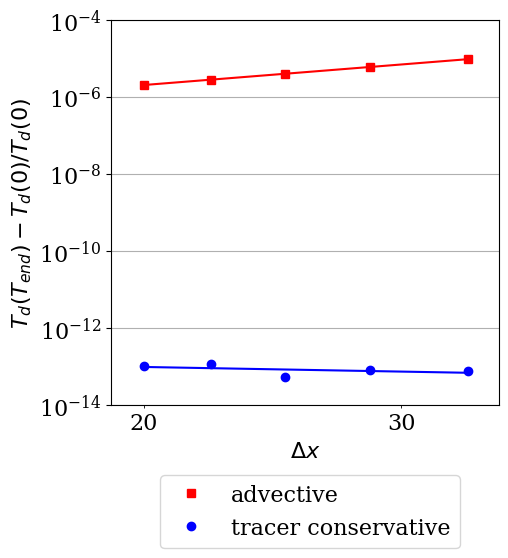
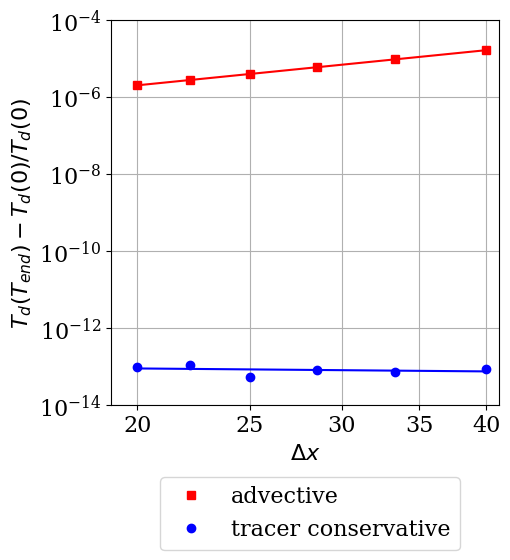
updated NL slice figures

diff --git a/paper_test_suite/NL_slice/plot_NL_slice_comparison.py b/paper_test_suite/NL_slice/plot_NL_slice_comparison.py
@@ -9,11 +9,11 @@ from tomplot import (set_tomplot_style, plot_convergence,
                      only_minmax_ticklabels, tomplot_legend_ax,
                      tomplot_legend_fig)
 import numpy as np
-from matplotlib.ticker import ScalarFormatter
+from matplotlib.ticker import ScalarFormatter, NullLocator
 
-order = 0
+order = 1
 configuration = 'convergence'
-quantity = 'tracer_density' # tracer_density or m_X
+quantity = 'm_X' # tracer_density or m_X
 
 # Tracer density will be the total and m_X is the L2 of stead state error
 
@@ -38,9 +38,9 @@ advective = []
 
 # Spatial refinements
 if order == 1:
-    dxzs = [60, 70, 80, 90, 100]
+    dxzs = [50, 60, 70, 80, 90, 100]
 else:
-    dxzs = [120, 140, 160, 180, 200]
+    dxzs = [100, 120, 140, 160, 180, 200]
 
 dx_values = []
 
@@ -127,18 +127,23 @@ ax.set_ylabel(ylabel)
 
 if order == 1:  
     if quantity == 'tracer_density':
-        ax.set_xlim([19,35])
+        ax.set_xlim([19,41])
         ax.set_ylim([1e-14,1e-4])
+        plt.gca().axes.xaxis.set_ticks([20,25,30,35,40])
+        plt.gca().axes.xaxis.set_ticklabels([20,25,30,35,40])
         plt.gca().xaxis.set_minor_formatter(ScalarFormatter())
 else:  
     if quantity == 'tracer_density':
-        ax.set_xlim([9.5, 17])
-        ax.set_ylim([1e-13,1e-5])
-        plt.gca().xaxis.set_minor_formatter(ScalarFormatter())
-        plt.gca().xaxis.set_major_formatter(ScalarFormatter())
-        plt.xticks([])
-        #print(plt.xticks([10,12,14,16]))
-        
+        ax.set_xlim([9.5, 20.5])
+        ax.set_ylim([1e-13,1e-4])
+        #plt.gca().xaxis.set_minor_formatter(ScalarFormatter())
+        #plt.gca().xaxis.set_major_formatter(ScalarFormatter())
+        #plt.xticks([],minor=False)
+        #plt.xticks([10,12,14,16], minor=False)
+        plt.gca().axes.xaxis.set_ticks([10,12,14,16,18,20])
+        plt.gca().axes.xaxis.set_ticklabels([10,12,14,16,18,20])
+        plt.gca().xaxis.set_minor_locator(NullLocator())
+
 tomplot_legend_ax(ax, location='bottom')
 
 plt.grid()
